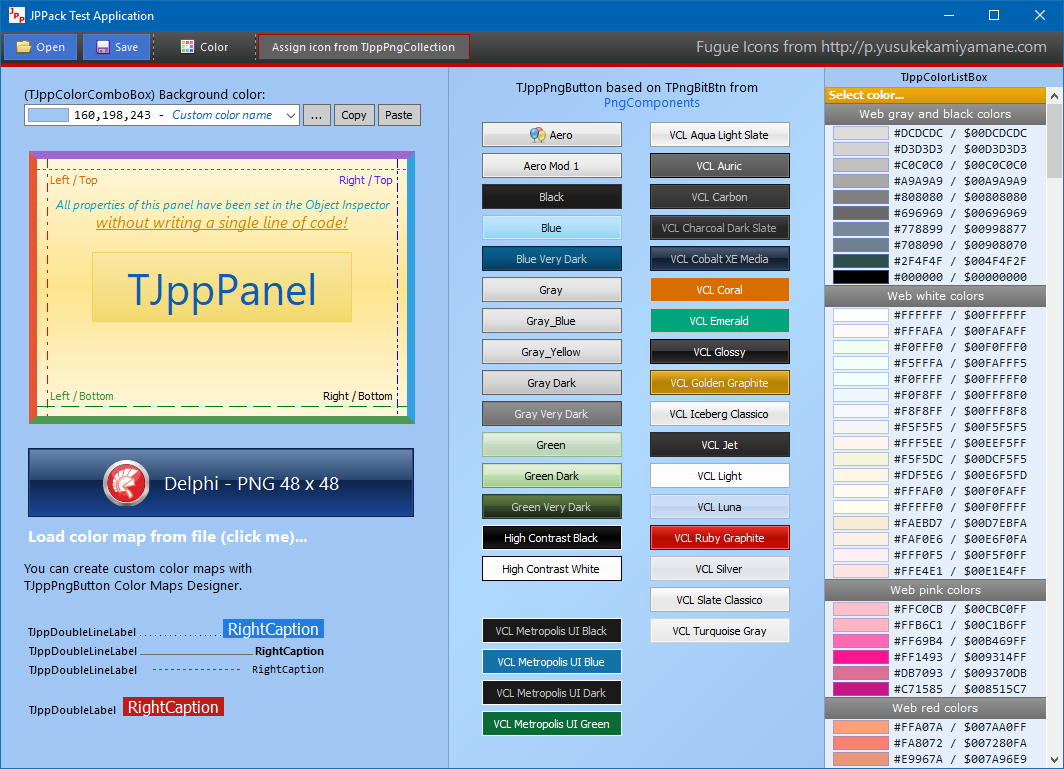
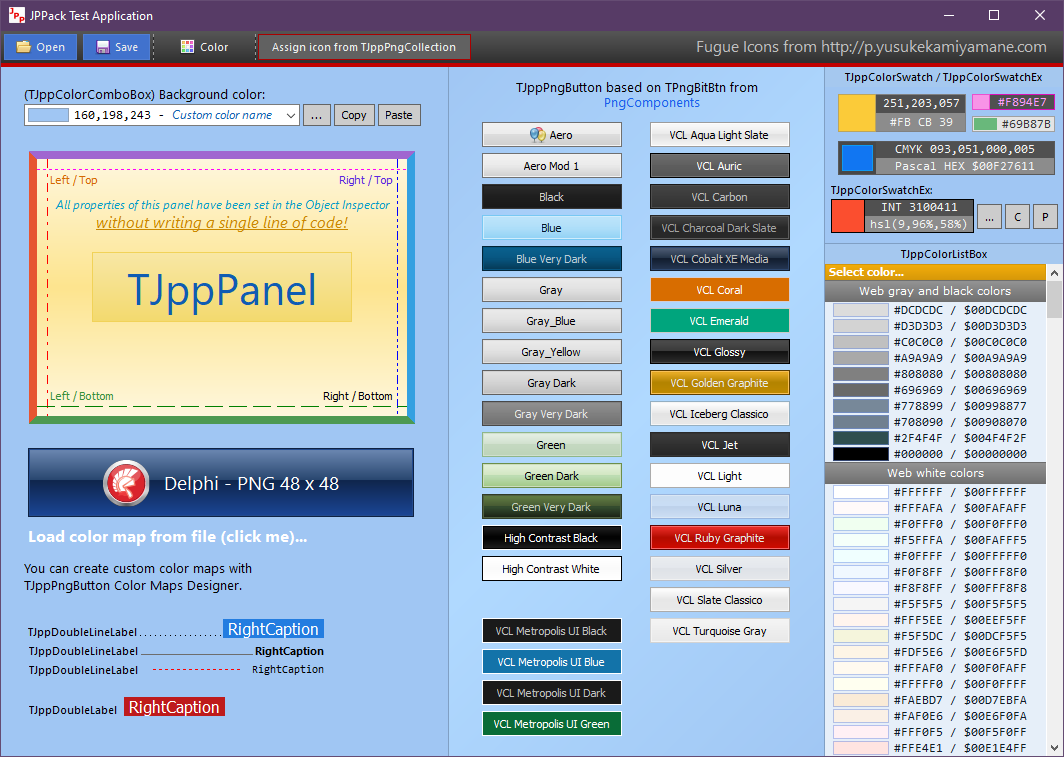
Updated Readme

diff --git a/Readme.md b/Readme.md
@@ -11,6 +11,7 @@
   1. [TJppBasicSpeedButton](#tjppbasicspeedbutton)
   1. [TJppColorComboBox](#tjppcolorcombobox)
   1. [TJppColorListBox](#tjppcolorlistbox)
+  1. [TJppColorSwatch, TJppColorSwatchEx](#tjppcolorswatch-tjppcolorswatchex)
   1. [TJppLinkLabel](#tjpplinklabel)
   1. [TJppDoubleLineLabel](#tjppdoublelinelabel)
   1. [TJppDoubleLabel](#tjppdoublelabel)
@@ -27,8 +28,8 @@
 
 ## Overview
 
-**JPPack** is a small collection of VCL components for Delphi and LCL components for Lazarus.  
-Supported Delphi versions: **XE2**, **XE3**, **XE4**, **XE5**, **XE6**, **XE7**, **XE8**, **10.0 Seattle**, **10.1 Berlin**, **10.2 Tokyo**, **10.3 Rio**.  
+**JPPack** is a small collection of VCL components for Delphi and LCL components for Lazarus.
+Supported Delphi versions: **XE2**, **XE3**, **XE4**, **XE5**, **XE6**, **XE7**, **XE8**, **10.0 Seattle**, **10.1 Berlin**, **10.2 Tokyo**, **10.3 Rio**.
 **Lazarus**: 2.0.3 (FPC 3.3.1).
 
 <p align="center">
@@ -43,7 +44,7 @@ I am no expert on writing VCL components and helped myself by analyzing the sour
 
 Some of the functions and procedures related to graphics processing were taken from the *Cindy Components*. The gradient related routines were almost entirely taken from this package (`VCL.cyGraphics.pas` file).
 
-The author of the *Cindy Component*s is Júlio Maurício Antunes Piao. The sources are available at https://sourceforge.net/projects/tcycomponents/  
+The author of the *Cindy Component*s is Júlio Maurício Antunes Piao. The sources are available at https://sourceforge.net/projects/tcycomponents/
 In the source files in which I use functions written by Júlio, I have added relevant information with a link to his page.
 
 ### PngComponents
@@ -58,8 +59,8 @@ In the folder [3rd-party](3rd-party) you can find the ZIP file with the *PngComp
 
 ### TJppPanel
 
-A highly customizable panel. `TCustomPanel` descendant.  
-It was written on the basis of one of the panels included in the *Cindy Components* package (but I do not remember exactly which one).  
+A highly customizable panel. `TCustomPanel` descendant.
+It was written on the basis of one of the panels included in the *Cindy Components* package (but I do not remember exactly which one).
 
 <p align="center">
 <img src="./docs/img/TJppPanel.png">
@@ -85,8 +86,8 @@ A truncated version of the `TJppPanel`. It does not have built-in collections of
 
 ### TJppPngButton
 
-Currently **only for Delphi**.  
-`TJppPngButton` is an extended `TPngBitBtn` button from the **PngComponents** package.  
+Currently **only for Delphi**.
+`TJppPngButton` is an extended `TPngBitBtn` button from the **PngComponents** package.
 
 <p align="center">
 <img src="./docs/img/TJppPngButtons.png">
@@ -108,7 +109,7 @@ Color schemes can be edited with the `TJppPngButton Color Maps Designer` program
 
 ### TJppBasicPngButton
 
-Currently **only for Delphi**.  
+Currently **only for Delphi**.
 This button is a slightly truncated version of the `TJppPngButton`. It has only one gradient for each button state and does not support color schemes.
 
 ---
@@ -160,6 +161,40 @@ It is very similar to `TJppColorComboBox`, but it has no built-in components.
 
 ---
 
+### TJppColorSwatch, TJppColorSwatchEx
+
+**TJppColorSwatch** is a component displaying the color and its value (code) in two formats.
+
+<p align="center">
+<img src="./docs/img/TJppColorSwatch.png">
+</p>
+
+It consists of three parts: a rectangle displaying the color (on the left) and two rectangles with the codes of the selected color. Each part can be hidden, so you can, for example, display only a rectangle with a color or only the color code in the selected format.
+
+Available color formats:
+
+|         Format          |           Example            |
+| ------------------------- | ------------------------------ |
+| `ctBgr`                 | `128,064,032`          |
+| `ctCmyk`               | `075,050,000,050` |
+| `ctCppHex`          | `0x00804020`             |
+| `ctHslCss`          | `220,60%,31%`          |
+| `ctHslWin`          | `146,144,075`          |
+| `ctHtml`               | `#204080`                    |
+| `ctPascalHex`   | `$00804020`               |
+| `ctPascalInt`   | `8405024`                    |
+| `ctRgb`                 | `032,064,128`          |
+| `ctRgbPercent` | `13%,25%,50%`          |
+
+If you want to display the color code in some other format, you can do it in the `OnGetTopColorStrValue` event handler (for the upper color code) and `OnGetBottomColorStrValue` (for the bottom).
+
+**TJppColorSwatchEx** is an extended version of the **TJppColorSwatch**. It has a built-in label (`BoundLabel`) and three buttons: `ButtonChangeColor`, `ButtonCopyColor` and `ButtonPasteColor`.
+
+`BoundLabel` is a standard label (`TCustomLabel` descendant) and can be displayed on the left, right, above or below the component. The buttons are inherited from the `TJppBasicSpeedButton` class, so you can freely set the colors for all button states (normal, hot, down, disabled) and the PNG icon.
+
+
+---
+
 ### TJppLinkLabel
 
 Label with additional fonts (`TFont`) for 5 states: *normal*, *visited-normal*, *hot*, *visited-hot* and *disabled*. It is inherited from `TCustomLabel`.
@@ -199,10 +234,10 @@ My modifications:
 * TagExt
 * Added prefixes `Jpp`
 
-The `RightCaption` has its own font, background and border color.  
-The `RightCaption` can be positioned vertically by `RightCaptionPosDeltaY`.  
-The line can be positioned vertically by `LinePosDeltaY`.  
-The length of the line can be modified by `LineSizeDeltaX1` and `LineSizeDeltaX2`.  
+The `RightCaption` has its own font, background and border color.
+The `RightCaption` can be positioned vertically by `RightCaptionPosDeltaY`.
+The line can be positioned vertically by `LinePosDeltaY`.
+The length of the line can be modified by `LineSizeDeltaX1` and `LineSizeDeltaX2`.
 If `AutoHeight = True`, the height of the component will be calculated and applied automatically.
 
 ---
@@ -215,7 +250,7 @@ A simple label component composed of 2 captions: left (property `Caption`) and r
 <img src="./docs/img/TJppDoubleLabel.png">
 </p>
 
-The space between captions can be modified using the `Spacing` property.  
+The space between captions can be modified using the `Spacing` property.
 Based on **TJppDoubleLineLabel**.
 
 ---
@@ -223,9 +258,9 @@ Based on **TJppDoubleLineLabel**.
 ### TJppTimer
 
 A standard `TTimer` component with a few additional properties and methods:
-1. `RepeatCountLimit` property.  
+1. `RepeatCountLimit` property.
 Here you can set how many times the time interval specified in the `Interval` property can be reached. The value `0` means no limit.
-1. `Counter` property.  
+1. `Counter` property.
 Each time the time interval specified in the `Interval` property expires, the` Counter` property is incremented by 1. When the `Counter` reaches the value of `RepeatCountLimit`, the timer is stopped and the `OnRepeatCountLimitReached` event handler is triggered (if assigned).
 1. `ClearCounterOnStart` property. If is set to `True`, then the `Start` method resets the `Counter`.
 1. `Start` method. Sets `Enabled` to `True`. If `ClearCounterOnStart` is set to `True` then the `Start` sets the `Counter` property to `0`.
@@ -293,7 +328,7 @@ And read only properties:
   Height: integer;
 ```
 
-**Important!**  
+**Important!**
 The **TPngImage** objects are created automatically when creating collection items. If you want to check if any item of the collection has a PNG image assigned, you can not do it by comparing with **nil**. You must use the `TPngImage.Empty` method:
 
 ```delphi
@@ -371,12 +406,12 @@ Property | Default value
 
 Before installing the **JPPack** package, you must first install 2 another packages:
 1. **JPLib** from https://github.com/jackdp/JPLib
-1. **PngComponents** from https://bitbucket.org/uweraabe/pngcomponents  
+1. **PngComponents** from https://bitbucket.org/uweraabe/pngcomponents
 You can use *PngComponents* ver. 1.4.1 package from the [3rd-party](3rd-party) folder. I tested *JPPack* with this version and it looks like everything works OK.
 
 If you have installed the **PNG Components** using the **GetIt Package Manager**, you will probably have to change the name `PngComponents` to `PngComponentsD` in the **JPPack.dpk** file.
 
-In the [packages](packages) folder you can find installation packages for all Delphi versions from **XE2** to **10.3 Rio**.  
+In the [packages](packages) folder you can find installation packages for all Delphi versions from **XE2** to **10.3 Rio**.
 Go to the subfolder with the name of your Delphi version (eg `Delphi_XE7` for XE7 version) and open the file `JPPack.dproj` or `JPPack.dpk`. In the *Project Manager*, right-click the `JPPack.bpl` file, then select `Install` in the popup menu. After a short time, a message should appear displaying information about the correct installation of the package and with the list of newly installed components. All components you can find ont the **JPPack** page in the *Tool Palette*.
 
 You can also compile package for **Win64** target.
